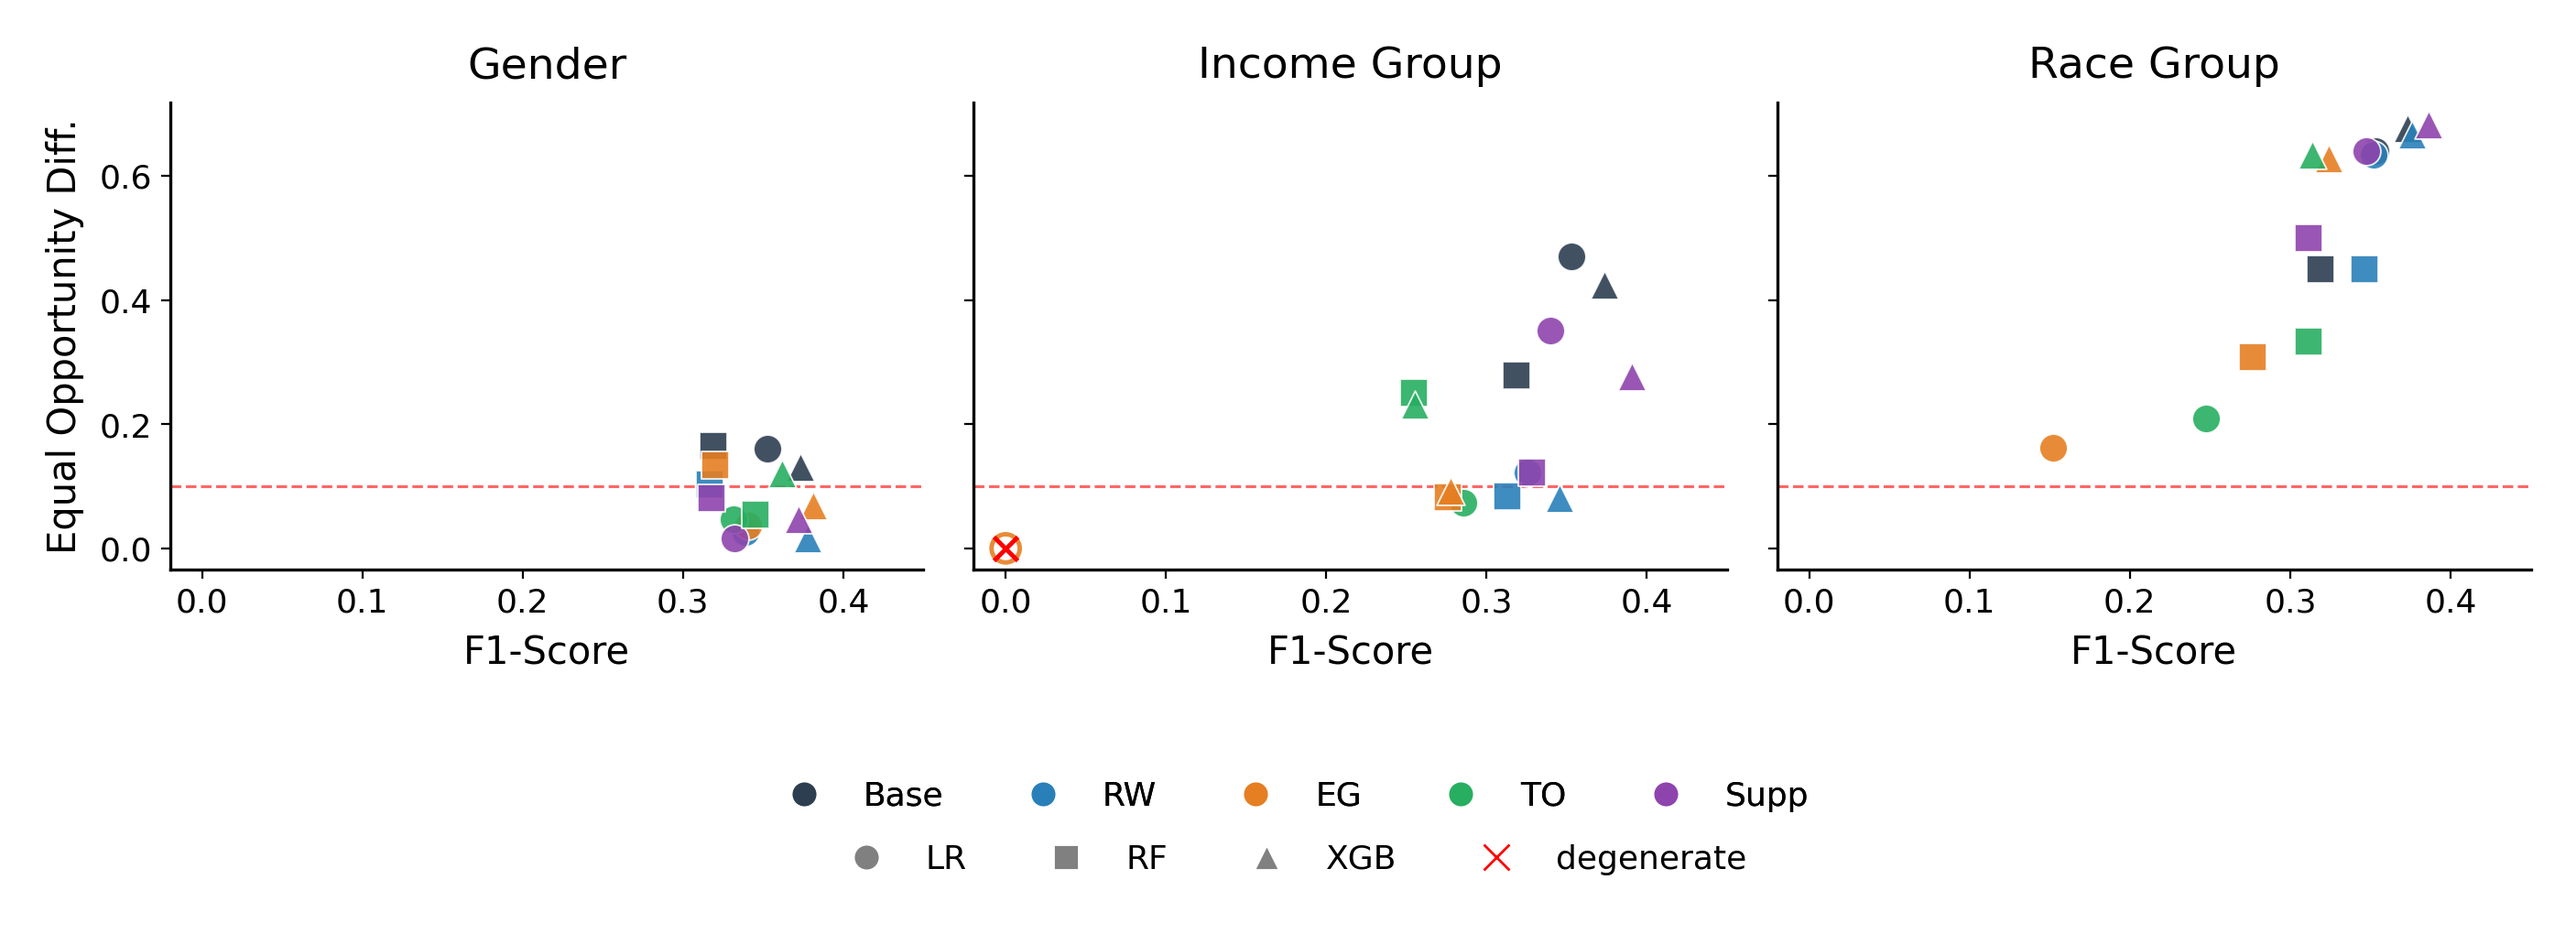
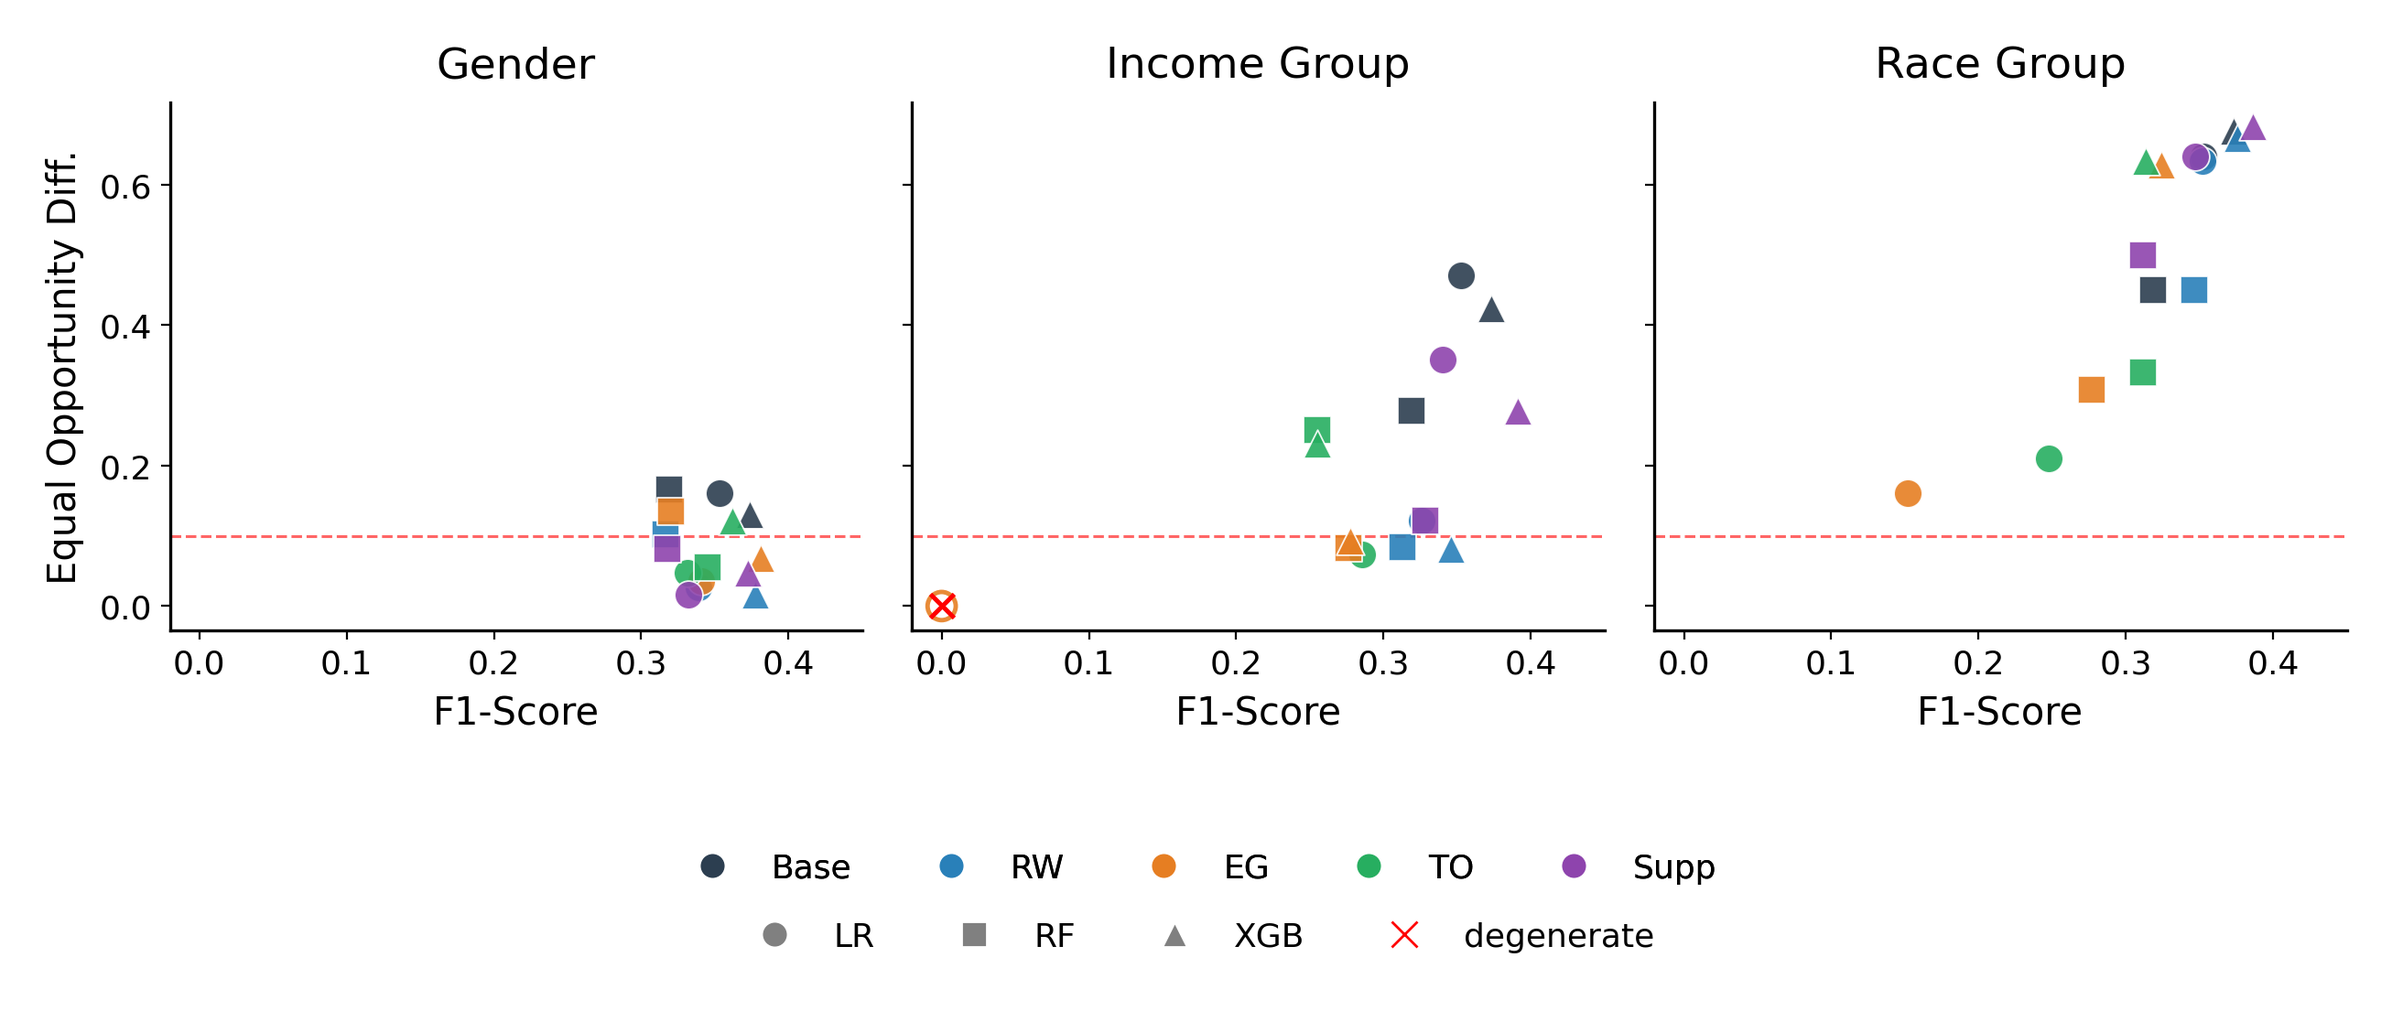
adjust ppt figures

diff --git a/src/nhanes/visualization.py b/src/nhanes/visualization.py
@@ -2037,7 +2037,7 @@ def ppt_fig2_nhanes_tradeoff(cfg, attrs=None, out="ppt_fig2_nhanes_tradeoff"):
     titles = [cfg.ATTR_TITLES.get(a, a) for a in attrs]
 
     x_hi = max(0.45, df["f1"].max() * 1.1)
-    fig, axes = plt.subplots(1, len(attrs), figsize=(14.0, 4.6), sharey=True)
+    fig, axes = plt.subplots(1, len(attrs), figsize=(13.0, 5.0), sharey=True)
     axes = np.atleast_1d(axes)
     for ax, attr, title in zip(axes, attrs, titles):
         sub = df[df.sensitive_attr == attr]
@@ -2228,7 +2228,7 @@ def ppt_fig4_nhanes_amplification(cfg, attrs=None, out="ppt_fig4_nhanes_amplific
     titles = [cfg.ATTR_TITLES.get(a, a) for a in attrs]
     methods = [m for m in METHOD_ORDER if m in df["miti_method"].unique()]
 
-    fig, axes = plt.subplots(1, len(attrs), figsize=(13.5, 4.0), sharey=True)
+    fig, axes = plt.subplots(1, len(attrs), figsize=(11.5, 4.6), sharey=True)
     axes = np.atleast_1d(axes)
     width = 0.26
     x = np.arange(len(methods))
